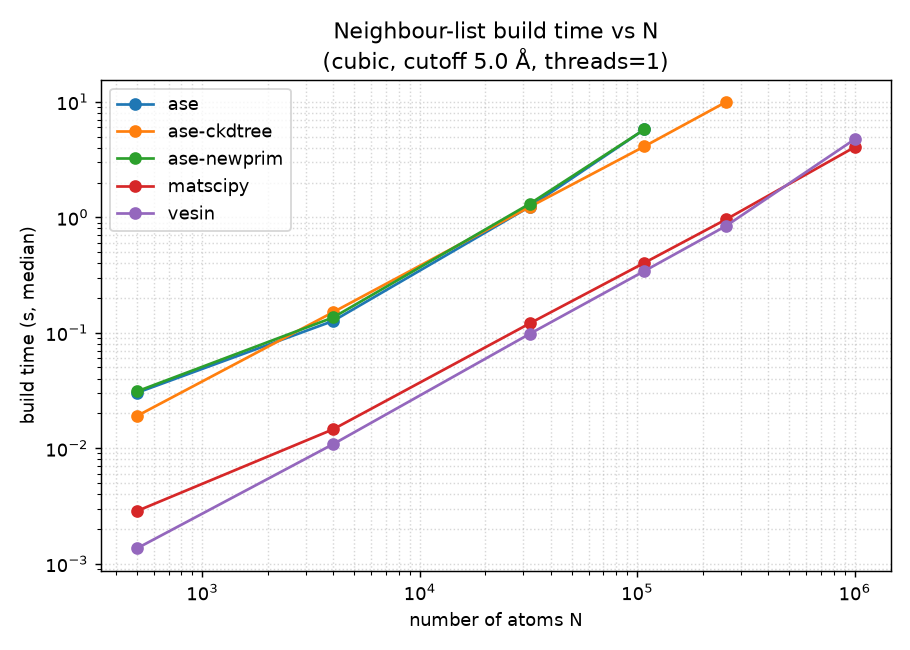
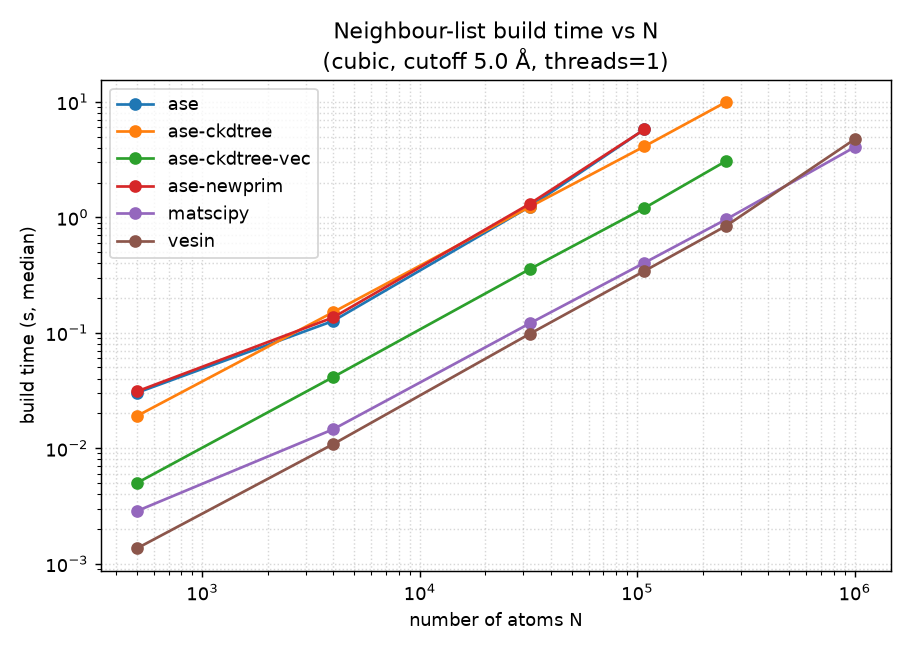
Explain why cKDTree lags + prototype vectorised-assembly fix
Diagnose why scipy's compiled cKDTree is not competitive with the
compiled cell-list backends (probe_query.py, decomposition at 32k):
- pure tree traversal (128 ms) already ~= matscipy's whole build (119 ms):
  a general KD-tree radius query loses to a cell list for uniform-density
  fixed-cutoff enumeration (worse constants + cache behaviour);
- ASE issues one full N-point query per periodic image (14x); 13 of 14
  shifts query all atoms but find ~4% of neighbours -- wasted descents;
- query_ball_point materialises one Python list per point (+~30%);
- the per-atom Python assembly loop is ~85% of the full build.

Add ase-ckdtree-vec prototype backend: identical cKDTree query, but the
per-atom assembly and bothways loops replaced with np.repeat/np.concatenate/
mask ops. Verified edge-identical by the correctness gate; ~3.5x faster than
the current default path with no new dependency (does not catch compiled
backends, as expected). Replot vs-N and vs-cutoff with the prototype line.

diff --git a/probe_query.py b/probe_query.py
@@ -1,0 +1,141 @@
+"""Decompose the scipy cKDTree neighbour-list cost.
+
+Goal: explain why scipy's compiled cKDTree is *not* competitive with the
+compiled cell-list backends (matscipy, vesin), despite all being "C code".
+
+We split the cKDTree path into:
+  1. tree construction
+  2. the per-image-shift query traversal, two ways:
+       a. return_length=True  -> counts only (pure compiled traversal, no Python
+          objects materialised)
+       b. default             -> list-of-lists (forces one Python list per query
+          point, i.e. the materialisation cost)
+  3. (for reference) the full ASE PrimitiveNeighborList build and the matscipy /
+     vesin total build.
+
+The gap between (2a) and (2b) is the Python-object materialisation overhead that
+scipy's API forces on this workload; (2a) is the fair "compiled tree traversal"
+number to compare against a cell list.
+"""
+
+from __future__ import annotations
+
+import argparse
+import itertools
+import time
+
+import numpy as np
+from scipy.spatial import cKDTree
+
+from ase.cell import Cell
+from ase.geometry import minkowski_reduce, wrap_positions
+from ase.neighborlist import _calc_expansion
+from systems import make_cubic
+
+
+def setup(n, cutoff):
+    at = make_cubic(n)
+    nat = len(at)
+    cutoffs = np.full(nat, cutoff / 2.0)
+    rcmax = float(cutoffs.max())
+    pbc = np.array(at.pbc)
+    cell = Cell(np.asarray(at.cell))
+    pos0 = at.get_positions()
+    rcell, op = minkowski_reduce(cell, pbc)
+    positions = wrap_positions(pos0, rcell, pbc=pbc, eps=0)
+    N = _calc_expansion(rcell, pbc, rcmax)
+    shifts = [(n1, n2, n3) for n1, n2, n3 in itertools.product(
+        range(N[0] + 1), range(-N[1], N[1] + 1), range(-N[2], N[2] + 1))
+        if not (n1 == 0 and (n2 < 0 or (n2 == 0 and n3 < 0)))]
+    return at, positions, rcell, cutoffs, rcmax, shifts
+
+
+def best(fn, k=3):
+    fn()  # warmup
+    return min(_timed(fn) for _ in range(k))
+
+
+def _timed(fn):
+    t0 = time.perf_counter()
+    fn()
+    return time.perf_counter() - t0
+
+
+def main():
+    p = argparse.ArgumentParser()
+    p.add_argument("--n", type=int, default=32000)
+    p.add_argument("--cutoff", type=float, default=5.0)
+    args = p.parse_args()
+
+    at, positions, rcell, cutoffs, rcmax, shifts = setup(args.n, args.cutoff)
+    nat = len(positions)
+    r = cutoffs + rcmax
+    print(f"cubic Ni N={nat}, cutoff={args.cutoff} Å, "
+          f"{len(shifts)} image shifts queried, query radius={r[0]:.2f} Å\n")
+
+    # 1. tree build
+    t_build = best(lambda: cKDTree(positions, copy_data=True))
+
+    tree = cKDTree(positions, copy_data=True)
+
+    # how many neighbour entries are produced across all shifts (the work done)
+    total_found = 0
+    for s in shifts:
+        disp = np.asarray(s) @ rcell
+        lengths = tree.query_ball_point(positions - disp, r=r, return_length=True)
+        total_found += int(lengths.sum())
+
+    # 2a. traversal only (counts), workers=1 and workers=-1
+    def q_len(workers):
+        for s in shifts:
+            disp = np.asarray(s) @ rcell
+            tree.query_ball_point(positions - disp, r=r,
+                                  return_length=True, workers=workers)
+    t_len1 = best(lambda: q_len(1))
+    t_lenN = best(lambda: q_len(-1))
+
+    # 2b. list-of-lists materialisation, workers=1 and workers=-1
+    def q_list(workers):
+        for s in shifts:
+            disp = np.asarray(s) @ rcell
+            tree.query_ball_point(positions - disp, r=r, workers=workers)
+    t_list1 = best(lambda: q_list(1))
+    t_listN = best(lambda: q_list(-1))
+
+    # 3. references
+    from backends import get_backend
+    def full_build(name):
+        b = get_backend(name)
+        ok, _ = b.available()
+        if not ok:
+            return None
+        b.compute(at, args.cutoff)  # warmup
+        return min(_timed(lambda: b.compute(at, args.cutoff)) for _ in range(3))
+
+    t_ckd_full = full_build("ase-ckdtree")
+    t_mat = full_build("matscipy")
+    t_ves = full_build("vesin")
+
+    ms = lambda x: "   n/a" if x is None else f"{x*1e3:7.1f}"
+    print("=== cKDTree cost decomposition (ms, best of 3) ===")
+    print(f"  tree construction                         : {ms(t_build)}")
+    print(f"  traversal only, counts  (workers=1)       : {ms(t_len1)}   <- 'pure compiled tree'")
+    print(f"  traversal only, counts  (workers=-1)      : {ms(t_lenN)}")
+    print(f"  + list-of-lists materialise (workers=1)   : {ms(t_list1)}")
+    print(f"  + list-of-lists materialise (workers=-1)  : {ms(t_listN)}")
+    print(f"  python-list materialisation overhead      : {ms(t_list1 - t_len1)} "
+          f"({100*(t_list1-t_len1)/t_list1:.0f}% of the list query)")
+    print(f"  neighbour entries produced (all shifts)   : {total_found:,}")
+    print()
+    print("=== full neighbour-list build, same system (ms, best of 3) ===")
+    print(f"  ase-ckdtree (tree build + assembly)       : {ms(t_ckd_full)}")
+    print(f"  matscipy (compiled cell list)             : {ms(t_mat)}")
+    print(f"  vesin    (compiled cell list)             : {ms(t_ves)}")
+    print()
+    if t_mat:
+        print(f"  scipy traversal-only / matscipy total     : {t_len1/t_mat:4.1f}x")
+        print(f"  scipy traversal-only / vesin total        : {t_len1/t_ves:4.1f}x")
+
+
+if __name__ == "__main__":
+    main()

diff --git a/backends.py b/backends.py
@@ -158,6 +158,105 @@ class AseCKDTreeBackend(Backend):
 
 
 # --------------------------------------------------------------------------- #
+# 2c. ase-ckdtree-vec -- PROTOTYPE: cKDTree query + vectorised assembly
+#
+# Demonstrates the cheap, dependency-free win identified in FINDINGS: keep the
+# exact same scipy cKDTree per-shift query as PrimitiveNeighborList, but replace
+# the `for a in range(natoms)` per-atom Python assembly loop AND the bothways
+# Python doubling loop with array operations (np.repeat / np.concatenate /
+# boolean masks). This is NOT an ASE source edit; it is a standalone re-
+# implementation using ASE's own helpers, to measure what such a patch would buy.
+# Correctness.py validates it against every other backend.
+# --------------------------------------------------------------------------- #
+class AseCKDTreeVecBackend(Backend):
+    name = "ase-ckdtree-vec"
+    convention = ("prototype: cKDTree query (as PrimitiveNeighborList) + "
+                  "vectorised array assembly instead of per-atom Python loops")
+
+    def available(self):
+        try:
+            from ase.cell import Cell  # noqa: F401
+            from ase.geometry import minkowski_reduce, wrap_positions  # noqa: F401
+            from ase.neighborlist import _calc_expansion  # noqa: F401
+        except Exception as exc:  # pragma: no cover
+            return False, f"ASE internals unavailable for prototype: {exc}"
+        return True, ""
+
+    def _compute(self, atoms, cutoff):
+        import itertools
+
+        from scipy.spatial import cKDTree
+
+        from ase.cell import Cell
+        from ase.geometry import minkowski_reduce, wrap_positions
+        from ase.neighborlist import _calc_expansion
+
+        nat = len(atoms)
+        cutoffs = np.full(nat, cutoff / 2.0)
+        rcmax = float(cutoffs.max())
+        pbc = np.array(atoms.pbc)
+        cell = Cell(np.asarray(atoms.cell))
+        positions0 = atoms.get_positions()
+
+        # --- identical setup to PrimitiveNeighborList.build ----------------- #
+        rcell, op = minkowski_reduce(cell, pbc)
+        positions = wrap_positions(positions0, rcell, pbc=pbc, eps=0)
+        offsets = cell.scaled_positions(positions - positions0).round().astype(int)
+        tree = cKDTree(positions, copy_data=True)
+        N = _calc_expansion(rcell, pbc, rcmax)
+        arange = np.arange(nat)
+
+        i_parts, j_parts, S_parts = [], [], []
+        for n1, n2, n3 in itertools.product(
+                range(N[0] + 1), range(-N[1], N[1] + 1), range(-N[2], N[2] + 1)):
+            if n1 == 0 and (n2 < 0 or (n2 == 0 and n3 < 0)):
+                continue
+            displacement = np.array((n1, n2, n3)) @ rcell
+            shift0 = np.array((n1, n2, n3)) @ op
+
+            idx_lists = tree.query_ball_point(positions - displacement,
+                                              r=cutoffs + rcmax)
+            counts = np.fromiter((len(x) for x in idx_lists), dtype=np.intp,
+                                 count=nat)
+            total = int(counts.sum())
+            if total == 0:
+                continue
+
+            # --- VECTORISED assembly (replaces the per-atom Python loop) ---- #
+            first = np.repeat(arange, counts)              # atom a
+            second = np.concatenate([np.asarray(x, dtype=np.intp)
+                                     for x in idx_lists if len(x)])  # candidate b
+            delta = positions[second] + displacement - positions[first]
+            dist = np.sqrt(np.einsum("ij,ij->i", delta, delta))
+            mask = dist < (cutoffs[second] + cutoffs[first])
+            if n1 == 0 and n2 == 0 and n3 == 0:
+                mask &= second > first   # self_interaction=False, half of central cell
+            first, second = first[mask], second[mask]
+            i_parts.append(first)
+            j_parts.append(second)
+            S_parts.append(shift0 + offsets[second] - offsets[first])
+
+        if not i_parts:
+            empty_i = np.empty(0, dtype=int)
+            return (empty_i, empty_i.copy(), np.empty(0),
+                    np.empty((0, 3)), np.empty((0, 3), dtype=int))
+
+        i_half = np.concatenate(i_parts)
+        j_half = np.concatenate(j_parts)
+        S_half = np.concatenate(S_parts)
+
+        # --- VECTORISED bothways (replaces the Python doubling loop) -------- #
+        i = np.concatenate([i_half, j_half])
+        j = np.concatenate([j_half, i_half])
+        S = np.concatenate([S_half, -S_half])
+
+        cell_arr = np.asarray(atoms.cell)
+        D = positions0[j] - positions0[i] + S @ cell_arr
+        d = np.linalg.norm(D, axis=1)
+        return i, j, d, D, S
+
+
+# --------------------------------------------------------------------------- #
 # 3. matscipy -- matscipy.neighbours.neighbour_list (optional)
 # --------------------------------------------------------------------------- #
 class MatscipyBackend(Backend):
@@ -209,6 +308,7 @@ _REGISTRY = {
         AseBackend(),
         AseNewPrimBackend(),
         AseCKDTreeBackend(),
+        AseCKDTreeVecBackend(),
         MatscipyBackend(),
         VesinBackend(),
     )

diff --git a/FINDINGS.md b/FINDINGS.md
@@ -85,6 +85,70 @@ Implications for a cheap pure-Python win:
   measured **2.3× @32 k (182→80 ms)**, **1.3× @4 k**. Because the query is only
   ~15 % of the build, this yields **<10 % end-to-end** — worth having, not a fix.
 
+## Why isn't scipy's compiled cKDTree more competitive?
+Intuition says "it's C, it should be fast." It isn't, for four compounding
+reasons — measured in `probe_query.py` (cubic Ni, 32k, rc=5 Å):
+
+| component | time | note |
+|---|--:|---|
+| tree construction | 3.7 ms | negligible |
+| **traversal only (counts, workers=1)** | **128 ms** | the "pure compiled tree" — already ≈ matscipy's *entire* 119 ms build |
+| traversal only (workers=-1) | 46 ms | traversal parallelises 2.8× |
+| + Python list-of-lists materialise (workers=1) | 175 ms | +47 ms = **27 %** is building Python lists |
+| full ASE build (query + assembly) | 1178 ms | the per-atom Python assembly is the other ~85 % |
+| matscipy / vesin full build | 119 / 104 ms | for comparison |
+
+1. **Wrong algorithm for the workload.** For uniform density at a fixed cutoff, a
+   cell/linked list is O(N) with a tiny, cache-friendly constant (bin atoms, scan
+   27 neighbouring cells with linear memory access). A KD-tree `query_ball_point`
+   does an O(log N) descent **with backtracking, per query point**, chasing
+   pointers through a tree — far worse cache behaviour. The *pure compiled
+   traversal* (128 ms) already loses to matscipy's whole build (119 ms).
+2. **ASE handles periodicity the expensive way — 14× redundant passes.** It issues
+   one full N-point query per periodic-image shift. Per-shift breakdown:
+   the central `(0,0,0)` shift finds 1.62 M of the 1.69 M neighbours (96 %) in
+   64 ms; the **other 13 shifts each still query all 32 000 points** but together
+   find only ~4 % of neighbours for ~61 ms of **almost entirely wasted tree
+   descents**. A cell list ghosts the boundary once and enumerates in a single
+   pass — boundary atoms cost essentially nothing.
+3. **scipy's API forces Python-object materialisation.** `query_ball_point`
+   returns one Python `list` per query point (an object array of lists), costing
+   ~27–30 % on top of traversal. matscipy/vesin write directly into preallocated
+   C arrays.
+4. **ASE then wraps it in a Python per-atom assembly loop** (`for a in
+   range(natoms)` + the `bothways` doubling loop) that is ~85 % of the full build.
+
+Net: "compiled" doesn't save you when it's the *wrong algorithm* (general tree
+vs cell list), *used inefficiently* (14 full passes for periodicity), behind a
+*Python-object-producing API*, wrapped in a *Python post-processing loop*.
+matscipy/vesin are the right algorithm, single-pass, C-array output, zero Python.
+
+## Prototype: vectorised assembly (the cheap, no-dependency win)
+The 85 % is addressable without any new dependency or algorithm change. The
+prototype backend `ase-ckdtree-vec` (`backends.py`; a standalone re-implementation,
+**not** an ASE source edit) keeps the *identical* cKDTree per-shift query but
+replaces the per-atom Python loop and the `bothways` doubling loop with array ops
+(`np.repeat` for `i`, `np.concatenate` for `j`/`S`, boolean-mask distance filter,
+and `concatenate([i,j],[j,i])` / `[S,-S]` for symmetrisation). It is verified
+edge-for-edge identical to every other backend by the correctness gate.
+
+Result (cubic Ni, rc=5 Å, 1 thread; `results/prototype_comparison.csv`):
+
+| N | ase-ckdtree (current) | ase-ckdtree-vec | speedup | matscipy | vesin |
+|--:|--:|--:|--:|--:|--:|
+| 4 000 | 150 ms | 41 ms | **3.6×** | 14 ms | 9.7 ms |
+| 32 000 | 1221 ms | 346 ms | **3.5×** | 121 ms | 99 ms |
+| 108 000 | 4202 ms | 1195 ms | **3.5×** | 408 ms | 348 ms |
+
+A consistent **~3.5× speedup** and somewhat lower peak memory, for a low-risk,
+dependency-free change to the *default* path that every ASE user gets. It cuts
+the assembly portion ~6× (so the scipy query + list-materialisation, ~175 ms at
+32k, now dominates the remaining time). As expected it **does not catch the
+compiled backends** (still ~3× off matscipy/vesin, because reasons 1–3 above
+remain) — but it materially improves the common mid-size case for free. The
+v4 recommendation stands: ship this assembly fix for the default path *and* make
+a compiled backend trivially pluggable via the `(i,j,d,D,S)` contract.
+
 ## Thread scaling (pinned `OMP_NUM_THREADS=1` vs unpinned)
 Negligible on this machine. matscipy @1 M: 4.05 s pinned vs 3.83 s unpinned (~5 %);
 vesin showed no speedup unpinned (4.73 vs 4.89 s). vesin uses its own (rayon)

diff --git a/README.md b/README.md
@@ -10,6 +10,7 @@ lists first. See **[FINDINGS.md](FINDINGS.md)** for results and conclusions.
 | `ase` | `primitive_neighbor_list` (cell-binning) |
 | `ase-newprim` | `NewPrimitiveNeighborList` (thin wrapper over cell-binning) |
 | `ase-ckdtree` | `PrimitiveNeighborList` (scipy cKDTree path; the `NeighborList` **default**) |
+| `ase-ckdtree-vec` | prototype: same cKDTree query, vectorised array assembly (no ASE source edit; ~3.5× faster than `ase-ckdtree`) |
 | `matscipy` | `matscipy.neighbours.neighbour_list` (optional) |
 | `vesin` | `vesin.ase_neighbor_list` (optional) |
 
@@ -41,6 +42,9 @@ uv run python plots.py --results results/
 
 # Profile the cKDTree path (query vs assembly; workers=-1 probe)
 uv run python profile_ckdtree.py --n 32000 --cutoff 5.0
+
+# Decompose the cKDTree query (tree build vs traversal vs Python-list materialise)
+uv run python probe_query.py --n 32000 --cutoff 5.0
 ```
 
 ### Key flags
@@ -52,7 +56,9 @@ uv run python profile_ckdtree.py --n 32000 --cutoff 5.0
 ## Files
 `backends.py` adapter registry · `systems.py` test systems · `correctness.py`
 equivalence gate · `benchmark.py` harness (subprocess-per-run: timeout + clean
-peak-RSS + thread pinning) · `profile_ckdtree.py` · `plots.py` · `envinfo.py`.
+peak-RSS + thread pinning) · `profile_ckdtree.py` (query-vs-assembly split,
+`workers=-1`) · `probe_query.py` (query cost decomposition) · `plots.py` ·
+`envinfo.py`.
 
 Optional backends skip with a clear message if not installed; the benchmark
 never runs timing unless the correctness gate passes.
